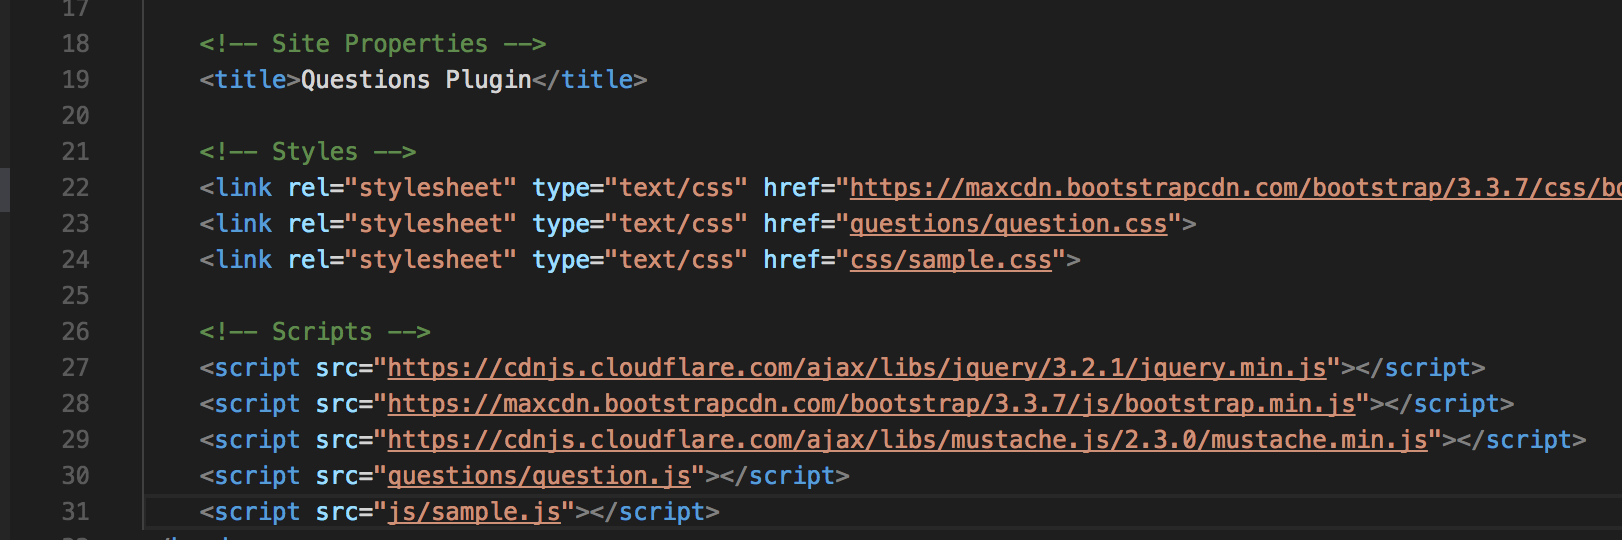
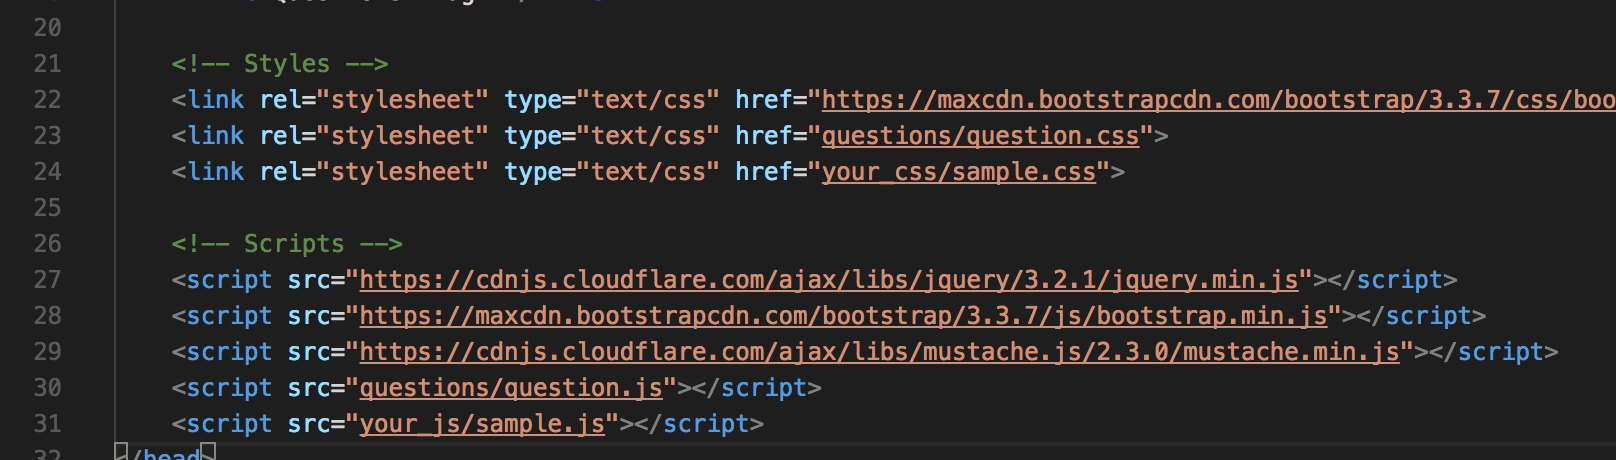
Fixed data on sample.js, and updated installation tutorial images

diff --git a/your_js/sample.js b/your_js/sample.js
@@ -17,50 +17,6 @@ var course = {
             unitQuestions: [
                 {
                     questionId: 0,
-                    type: "singleAnswer",
-                    enunciate: "Select the incorrect alternative:",
-                    rightAlternativeId: 2,
-                    questionStatusImg: "",
-                    alternatives: [
-                        {
-                            id: 0,
-                            isDisplayingTip: false,
-                            alternativeText: "Correct alternative.",
-                            alternativeHint: "This alternative is right, check the other ones",
-                            hintClass: "warning"
-                        },
-                        {
-                            id: 1,
-                            isDisplayingTip: false,
-                            alternativeText: "Correct alternative.",
-                            alternativeHint: "This alternative is right, check the other ones",
-                            hintClass: "warning"
-                        },
-                        {
-                            id: 2,
-                            isDisplayingTip: false,
-                            alternativeText: "Incorrect alternative.",
-                            alternativeHint: "Congrats!, this is the only alternative that is incorrect.",
-                            hintClass: "success"
-                        },
-                        {
-                            id: 3,
-                            isDisplayingTip: false,
-                            alternativeText: "Correct alternative.",
-                            alternativeHint: "This alternative is right, check the other ones",
-                            hintClass: "warning"
-                        },
-                        {
-                            id: 4,
-                            isDisplayingTip: false,
-                            alternativeText: "Correct alternative.",
-                            alternativeHint: "This alternative is right, check the other ones",
-                            hintClass: "warning"
-                        }
-                    ]
-                },
-                {
-                    questionId: 1,
                     type: "multipleAnswersTrueFalse",
                     questionStatusImg: "",
                     enunciate: "Select T for the alternatives that are correct or F for the alternatives that are incorrect:",
@@ -108,7 +64,7 @@ var course = {
                     ]
                 },
                 {
-                    questionId: 2,
+                    questionId: 1,
                     type: "singleAnswer",
                     enunciate: "Analyze the alternatives and pick the correct ones: ",
                     rightAlternativeId: 1,
@@ -177,6 +133,50 @@ var course = {
                             hintClass: "warning"
                         }
                     ]
+                },
+                {
+                    questionId: 2,
+                    type: "singleAnswer",
+                    enunciate: "Select the incorrect alternative:",
+                    rightAlternativeId: 2,
+                    questionStatusImg: "",
+                    alternatives: [
+                        {
+                            id: 0,
+                            isDisplayingTip: false,
+                            alternativeText: "Correct alternative.",
+                            alternativeHint: "This alternative is right, check the other ones",
+                            hintClass: "warning"
+                        },
+                        {
+                            id: 1,
+                            isDisplayingTip: false,
+                            alternativeText: "Correct alternative.",
+                            alternativeHint: "This alternative is right, check the other ones",
+                            hintClass: "warning"
+                        },
+                        {
+                            id: 2,
+                            isDisplayingTip: false,
+                            alternativeText: "Incorrect alternative.",
+                            alternativeHint: "Congrats!, this is the only alternative that is incorrect.",
+                            hintClass: "success"
+                        },
+                        {
+                            id: 3,
+                            isDisplayingTip: false,
+                            alternativeText: "Correct alternative.",
+                            alternativeHint: "This alternative is right, check the other ones",
+                            hintClass: "warning"
+                        },
+                        {
+                            id: 4,
+                            isDisplayingTip: false,
+                            alternativeText: "Correct alternative.",
+                            alternativeHint: "This alternative is right, check the other ones",
+                            hintClass: "warning"
+                        }
+                    ]
                 }
             ]
         }
@@ -195,7 +195,7 @@ function buildEvaluationForm() {
     var unit1 = course.units[0];
 
     var question1Obj = jQuery.extend({}, new TrueOrFalseQuestion());
-    var question1Model = unit1.unitQuestions[1];
+    var question1Model = unit1.unitQuestions[0];
     var modelQuestion1 = {
         btnTryAgainText: DEFAULT_LBL_BTN_TRY_AGAIN,
         btnSubmitText: DEFAULT_LBL_BTN_SUBMIT_ANSWER,
@@ -211,7 +211,7 @@ function buildEvaluationForm() {
     question1Obj.build(EVALUATION_FORM_SELECTOR, modelQuestion1, onQuestionAlternativeSelected);
 
     var question2Obj = jQuery.extend({}, new SingleAnswerQuestion());
-    var question2Model = unit1.unitQuestions[2];
+    var question2Model = unit1.unitQuestions[1];
     question2Model.staticAlternatives = Questions.addRomanAlgarismsForAlternatives(question2Model.staticAlternatives);
     var modelQuestion2 = {
         btnTryAgainText: DEFAULT_LBL_BTN_TRY_AGAIN,
@@ -231,7 +231,7 @@ function buildEvaluationForm() {
     question2Obj.build(EVALUATION_FORM_SELECTOR, modelQuestion2, onQuestionAlternativeSelected);
 
     var question3Obj = jQuery.extend({}, new SingleAnswerQuestion());
-    var question3Model = unit1.unitQuestions[0];
+    var question3Model = unit1.unitQuestions[2];
     question3Model.alternatives = Questions.getAlphabetLetterForAlternatives(question3Model.alternatives, true);
     var modelQuestion3 = {
         btnTryAgainText: DEFAULT_LBL_BTN_TRY_AGAIN,
@@ -251,7 +251,7 @@ function buildEvaluationForm() {
 }
 
 function onQuestionAlternativeSelected(unitId, questionId, questionStatus){
-    console.log("The user changed the status of a Question object: ");
+    console.log("The user has changed the status of a Question object: ");
     console.log("Unit id: " + unitId);
     console.log("Question id: " + questionId);
     console.log("Question status: " + questionStatus);

diff --git a/index.html b/index.html
@@ -36,7 +36,7 @@
             <div class="col-xs-10 col-xs-offset-1 col-sm-10 col-sm-offset-1 col-md-10 col-md-offset-1 col-lg-10 col-lg-offset-1">
                 <h2><b>Questions</b></h2>
                 <p>A Js plugin to display Question objects for your evaluation forms</p>
-                <small class="blue">Open your browser's Console, play around with the Questions and follow the status of your answers on each Question.</small>
+                <small class="orange"><b>Open your browser's Console, play around with the Questions and follow the status of your answers on each Question.</b></small>
             </div>
         </div>
     </div>
@@ -72,29 +72,30 @@
             <ul class="no-bullet-point">
                 <li>
                     <div>
-                        <p><span><b>1</b></span> Download the plugin</p>
+                        <p><b><span>1</span> Download the plugin</b></p>
                         <img src="your_images/img_download_questions.png">
                     </div>
                 </li>
                 <li>
                     <div>
                         <hr>
-                        <p><span><b>2</b></span> Install the css and js files</p>
+                        <p><b><span>2</span> Install the css and js files</b></p>
                         <img src="your_images/img_install_questions.png">
                     </div>
                 </li>
                 <li>
                     <div>
                         <hr>
-                        <p><span><b>3</b></span> Add the container that is going to receive the question objects</p>
+                        <p><b><span>3</span> Add the container that is going to receive the question objects</b></p>
                         <img src="your_images/img_add_eval_form_container.png">
                     </div>
                 </li>
                 <li>
                     <div>
                         <hr>
-                        <p><span><b>4</b></span> Create Question objects and append to the container</p>
+                        <p><b><span>4</span> Create Question objects and append to the container</b></p>
                         <img src="your_images/img_create_question_append_container_1.png">
+                        <br>
                         <br>
                         <img src="your_images/img_create_question_append_container_2.png">
                     </div>
@@ -102,12 +103,31 @@
             </ul>
 
             <hr>
-            <p class="blue"><b>For detailed information read the source code of this page</b></p>
+
+            <h4><b>Usage</b></h4>
+            <p>Catch the user's answers on the callback function that you passed into the Question objects, and use it in your application</p>
+            <ul class="no-bullet-point">
+                <li>
+                    <img src="your_images/img_catch_user_answer_1.png" class="sm">
+                </li>
+                <li>
+                    <br>
+                    <br>
+                    <br>
+                    <img src="your_images/img_catch_user_answer_2.png">
+                </li>
+            </ul>
+
             <br>
-            <br>
-            <br>
+            <h4 class="black"><b>For detailed information read the source code of this page</b></h4>
         </div>
     </div>
+
+    <br>
+    <br>
+    <br>
+    <br>
+    <br>
 
 </body>
 </html>

diff --git a/your_css/sample.css b/your_css/sample.css
@@ -5,7 +5,7 @@ img {
     top:0px;
     width:auto;
     height:auto;
-    max-height:350px;
+    max-width:90%;
 }
 
 ul.no-bullet-point {
@@ -21,6 +21,17 @@ ul.no-bullet-point span {
 small {
     font-size: 16px;
 }
+
+.jumbotron {
+    background-color:#111111;
+    color:#fafafa;
+}
+.orange {
+    color:orange;
+}
+.black {
+    color:#000000;
+}
 .blue {
-    color:#4285F4;
+    color:#17598c;
 }

diff --git a/README.md b/README.md
@@ -3,7 +3,7 @@ Questions is a Javascript plugin that takes a data model of a Question and provi
 
 It allows the user to select an alternative, in case of a single answer question, or multiple options in the case of a True or False question. 
 
-It tracks the users' choices while they're selecting each option, and once the answer is submitted, it let's you catch it for evaluation.
+It tracks the users' choices while they're selecting each option, and once the answer has been submitted, it let's you catch it for evaluation.
 
 ## Requirements
 jQuery - https://cdnjs.cloudflare.com/ajax/libs/jquery/3.2.1/jquery.min.js
@@ -11,9 +11,4 @@ jQuery - https://cdnjs.cloudflare.com/ajax/libs/jquery/3.2.1/jquery.min.js
 Mustache - https://cdnjs.cloudflare.com/ajax/libs/mustache.js/2.3.0/mustache.min.js
 
 ## Installation
-1 - Download the plugin</p>
-2 - Install the css and js files</p>
-3 - Add the container that is going to receive the question objects</p>
-4 - Create Question objects and append to the container</p>
-
-For detailed information read the source code of the index.html file
+Access https://diegosilva776.github.io/Questions/
